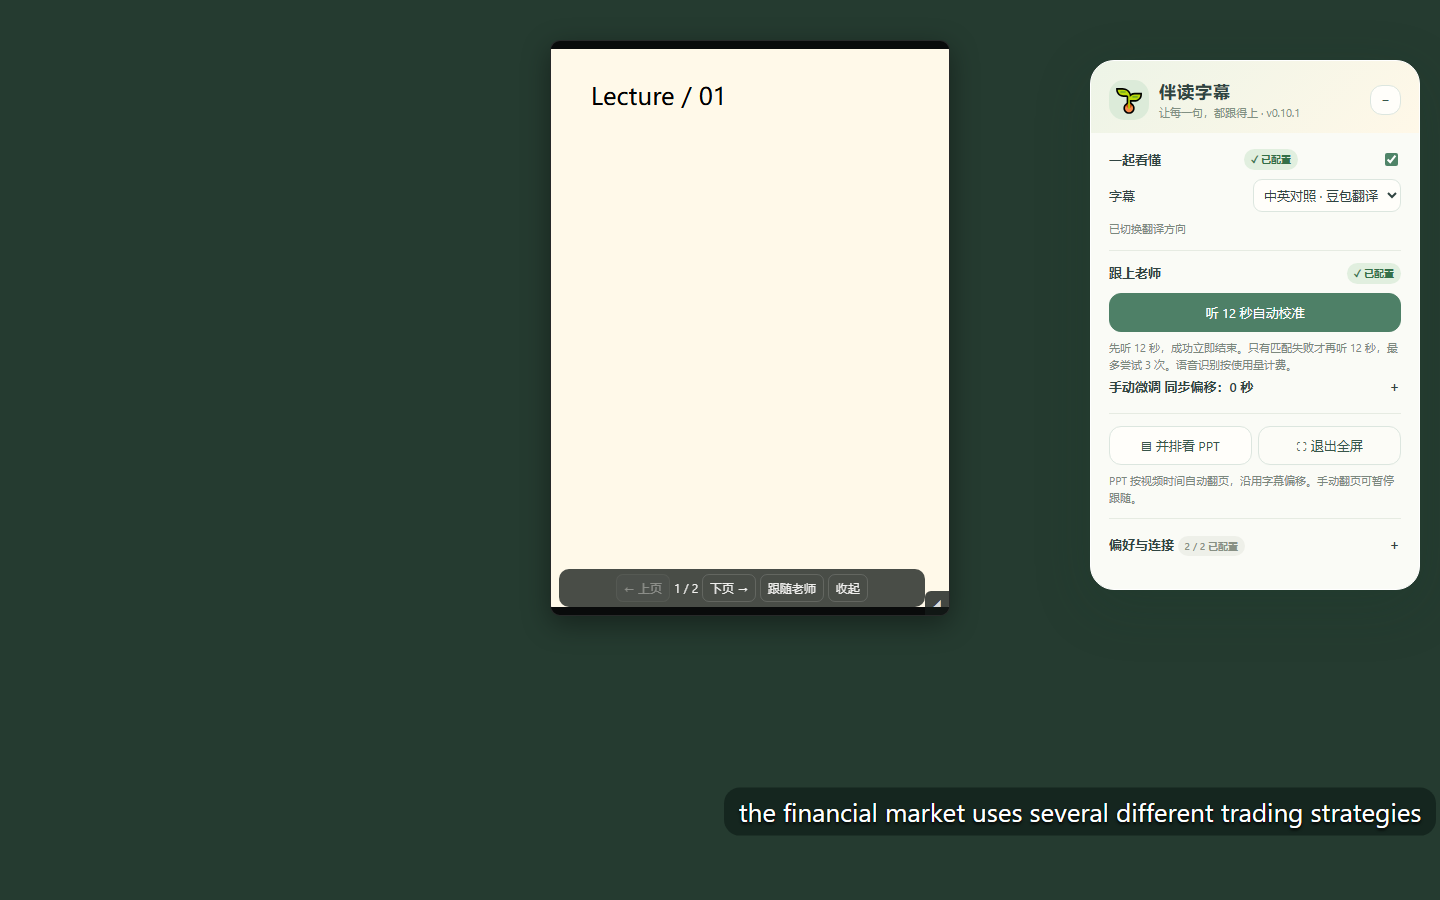
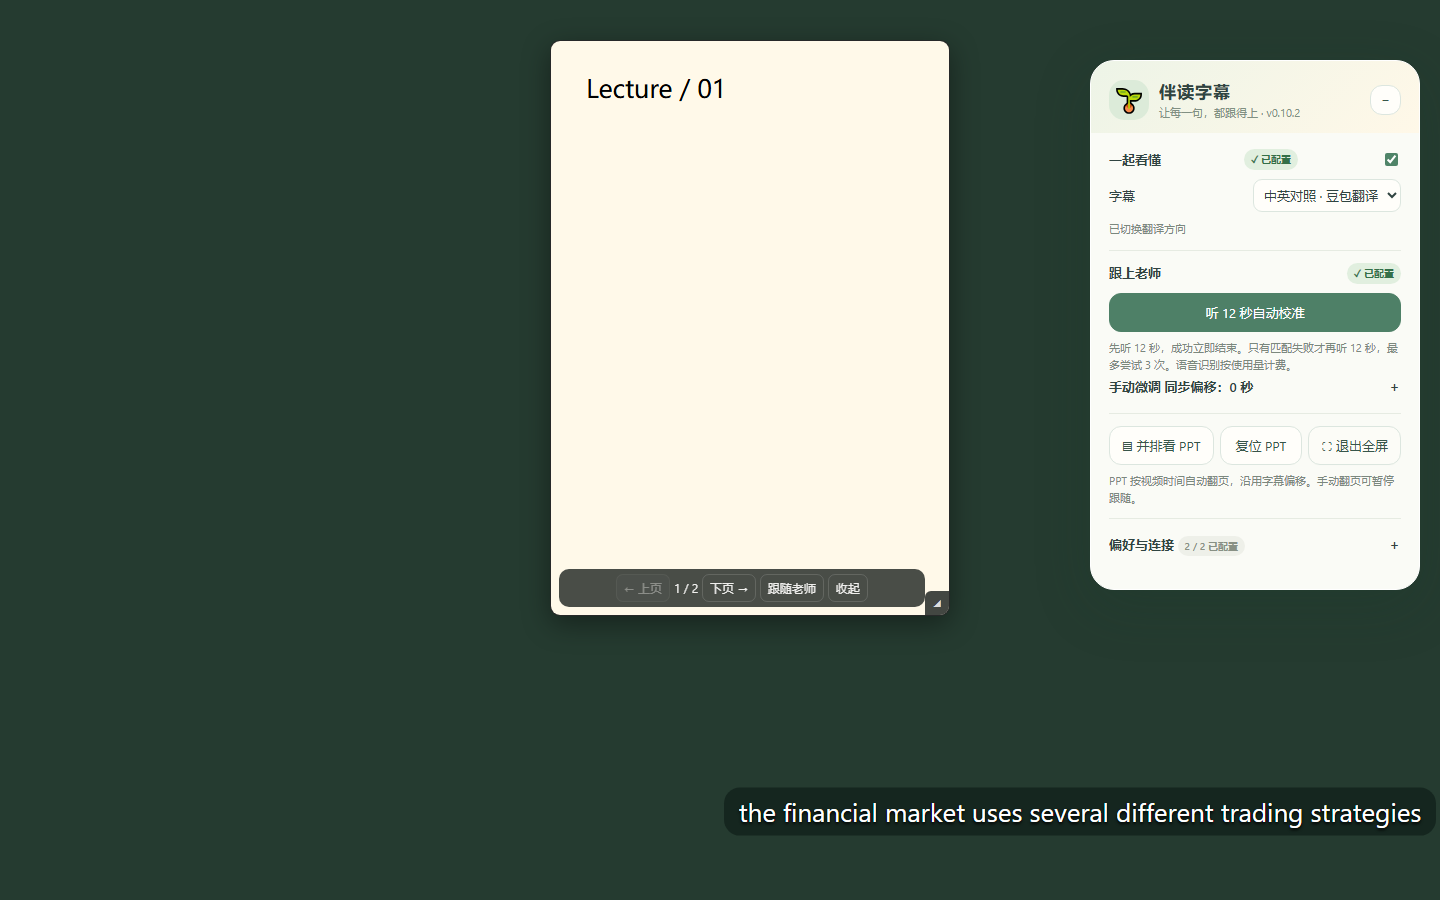
Allow offscreen PPT movement and independent edge cropping and scaling

diff --git a/zhiyun-subtitles.user.js b/zhiyun-subtitles.user.js
@@ -1,7 +1,7 @@
 // ==UserScript==
 // @name         智云课堂同步字幕
 // @namespace    zhiyunzimu.local
-// @version      0.10.1
+// @version      0.10.2
 // @description  将右侧语音识别及平台译文同步显示在视频底部，支持字幕导出。
 // @match        https://interactivemeta.cmc.zju.edu.cn/*
 // @grant        GM_xmlhttpRequest
@@ -243,9 +243,16 @@
     #slide-toolbar{position:absolute;bottom:8px;left:8px;right:24px;display:flex;gap:4px;align-items:center;justify-content:center;padding:5px;flex-wrap:wrap;background:#141a18e8;border-radius:10px;font-size:12px;color:#eee;opacity:0;transition:opacity .15s;pointer-events:none}
     #slides:hover #slide-toolbar,#slides:focus-within #slide-toolbar{opacity:1;pointer-events:auto}
     #slide-toolbar button{padding:5px 7px;background:transparent;color:#eee;border-color:#ffffff25;border-radius:7px} #slide-toolbar button:hover{background:#ffffff20} #slide-page{font-variant-numeric:tabular-nums}
-    #slide-viewport{width:100%;height:100%;overflow:hidden;touch-action:none;cursor:move}
-    #slide-image{display:block;width:100%;height:100%;object-fit:contain;user-select:none;-webkit-user-drag:none}
+    #slide-viewport{position:relative;width:100%;height:100%;overflow:hidden;touch-action:none;cursor:move}
+    #slide-image{position:absolute;left:50%;transform:translateX(-50%);display:block;width:auto;max-width:none;height:100%;user-select:none;-webkit-user-drag:none}
     #slide-resize{position:absolute;right:0;bottom:0;width:24px;height:24px;padding:0;border:0;border-radius:6px 0 0 0;background:#141a18cc;color:#ddd;cursor:nwse-resize;touch-action:none;font-size:16px}
+    .slide-edge{position:absolute;z-index:2;background:transparent;border:0;padding:0;border-radius:0;touch-action:none}
+    .slide-edge:hover{background:#8ebaa455;box-shadow:none}
+    .slide-edge[data-edge=left]{left:0;top:12px;bottom:26px;width:8px;cursor:ew-resize}
+    .slide-edge[data-edge=right]{right:0;top:12px;bottom:26px;width:8px;cursor:ew-resize}
+    .slide-edge[data-edge=top]{top:0;left:12px;right:12px;height:8px;cursor:ns-resize}
+    .slide-edge[data-edge=bottom]{bottom:0;left:12px;right:26px;height:8px;cursor:ns-resize}
+    #slide-resize{z-index:3}
     @media(hover:none){#slide-toolbar{opacity:1;pointer-events:auto}}
     @media(prefers-reduced-motion:reduce){*{transition:none!important}}
   </style>
@@ -254,9 +261,10 @@
   <section id="slides" hidden aria-label="课程幻灯片">
     <div id="slide-viewport" tabindex="0" aria-label="PPT 悬浮窗，拖动图片移动窗口"><img id="slide-image" draggable="false" alt="课程 PPT"></div>
     <nav id="slide-toolbar" aria-label="PPT 翻页"><button id="slide-prev">← 上页</button><span id="slide-page"></span><button id="slide-next">下页 →</button><button id="slide-follow" aria-pressed="true">✓ 跟随老师</button><button id="slide-close">收起</button></nav><button id="slide-resize" aria-label="调整 PPT 窗口大小" title="拖拽缩放；方向键微调">◢</button>
+    <button class="slide-edge" data-edge="left" aria-label="调整 PPT 左边缘"></button><button class="slide-edge" data-edge="right" aria-label="调整 PPT 右边缘"></button><button class="slide-edge" data-edge="top" aria-label="调整 PPT 上边缘"></button><button class="slide-edge" data-edge="bottom" aria-label="调整 PPT 下边缘"></button>
   </section>
   <section id="panel" aria-label="智云字幕设置">
-    <header id="panel-head"><span class="mascot">🌱</span><div><h3>伴读字幕</h3><span class="subtitle">让每一句，都跟得上 · v0.10.1</span></div><button id="collapse" aria-label="收起字幕设置">−</button></header>
+    <header id="panel-head"><span class="mascot">🌱</span><div><h3>伴读字幕</h3><span class="subtitle">让每一句，都跟得上 · v0.10.2</span></div><button id="collapse" aria-label="收起字幕设置">−</button></header>
     <div id="panel-body">
     <div class="section"><div class="section-title">一起看懂 <span id="translation-ready" class="badge"></span><input id="enabled" aria-label="显示字幕" type="checkbox" checked></div>
     <label>字幕<select id="mode"><option value="original">仅原文</option><option value="both">中英对照 · 豆包翻译</option></select></label>
@@ -268,7 +276,7 @@
     <details><summary>手动微调 <span id="offset-hint">同步偏移：0 秒</span></summary>
     <label>偏移 / 秒<input id="offset" type="number" min="-3600" max="3600" step="0.5" value="0"></label>
     <div class="actions"><button id="earlier">提前 0.5 秒</button><button id="later">延后 0.5 秒</button><button id="reset-offset">归零</button></div></details></div>
-    <div class="section"><div class="actions"><button id="show-slides">▤ 并排看 PPT</button><button id="focus-fullscreen">⛶ 专注全屏</button></div><p id="slides-status">翻页不会打断视频。初次打开左右各半；之后可自由拖动、缩放，记住你的布局。</p></div>
+    <div class="section"><div class="actions"><button id="show-slides">▤ 并排看 PPT</button><button id="reset-ppt">复位 PPT</button><button id="focus-fullscreen">⛶ 专注全屏</button></div><p id="slides-status">翻页不会打断视频。拖动可超出屏幕。左右拉边缘裁掉黑边，上下拉边缘按比例放大；复位可找回窗口。</p></div>
     <details class="section"><summary>偏好与连接 <span id="key-summary" class="badge"></span></summary>
     <label>翻译连接 <span id="translation-badge" class="badge"></span></label><button id="configure-key">设置翻译 Key</button>
     <label>语音连接 <span id="speech-key-badge" class="badge"></span></label><button id="speech-key">设置语音识别凭证</button><p>绿色勾表示已保存凭证，不代表接口权限已验证。</p>
@@ -510,7 +518,9 @@
   function slideBounds() {
     const r=splitVideo.getBoundingClientRect();
     const left=Math.max(0,r.left-r.width),top=Math.max(0,r.top);
-    return {left,top,width:Math.max(0,Math.min(innerWidth,r.left)-left),height:Math.max(0,Math.min(innerHeight,r.bottom)-top-64)};
+    const width=Math.max(0,Math.min(innerWidth,r.left)-left);
+    const ratio=$('slide-image').naturalWidth / $('slide-image').naturalHeight;
+    return {left,top,width,height:Math.max(0,Math.min(Math.min(innerHeight,r.bottom)-top-64,ratio>0?width/ratio:Infinity))};
   }
   function restoreSlideGeometry() {
     const b=slideBounds(),saved=GM_getValue('ppt-free-window-v2',null);
@@ -518,8 +528,8 @@
   }
   function applySlideGeometry(rect) {
     const b={left:0,top:0,width:innerWidth,height:innerHeight};
-    const width=Math.min(b.width,Math.max(280,rect.width)),height=Math.min(b.height,Math.max(180,rect.height));
-    Object.assign($('slides').style,{left:Math.max(b.left,Math.min(b.left+b.width-width,rect.left))+'px',top:Math.max(b.top,Math.min(b.top+b.height-height,rect.top))+'px',width:width+'px',height:height+'px'});
+    const width=Math.min(b.width*4,Math.max(160,rect.width)),height=Math.min(b.height*4,Math.max(100,rect.height));
+    Object.assign($('slides').style,{left:Math.max(72-width,Math.min(b.width-72,rect.left))+'px',top:Math.max(72-height,Math.min(b.height-72,rect.top))+'px',width:width+'px',height:height+'px'});
   }
   function saveSlideGeometry() {
     if(!splitVideo) return;
@@ -530,17 +540,25 @@
   $('slide-viewport').addEventListener('pointerdown',()=>{slideDragging=true;});
   for(const event of ['pointerup','pointercancel','lostpointercapture']) $('slide-viewport').addEventListener(event,()=>{slideDragging=false;});
   let resizing=null;
-  $('slide-resize').addEventListener('pointerdown',e=>{
-    if(e.button!==0) return;
-    const r=$('slides').getBoundingClientRect();
-    resizing={left:r.left,top:r.top,width:r.width,height:r.height,x:e.clientX,y:e.clientY};
-    e.currentTarget.setPointerCapture(e.pointerId);e.preventDefault();e.stopPropagation();
-  });
-  $('slide-resize').addEventListener('pointermove',e=>{
-    if(!resizing) return;
-    applySlideGeometry({...resizing,width:resizing.width+e.clientX-resizing.x,height:resizing.height+e.clientY-resizing.y});
-  });
-  for(const event of ['pointerup','pointercancel','lostpointercapture']) $('slide-resize').addEventListener(event,()=>{if(resizing) saveSlideGeometry();resizing=null;});
+  for(const handle of [$('slide-resize'),...shadow.querySelectorAll('.slide-edge')]) {
+    handle.addEventListener('pointerdown',e=>{
+      if(e.button!==0) return;
+      const r=$('slides').getBoundingClientRect();
+      resizing={left:r.left,top:r.top,width:r.width,height:r.height,x:e.clientX,y:e.clientY,edge:handle.dataset.edge || 'corner'};
+      handle.setPointerCapture(e.pointerId);e.preventDefault();e.stopPropagation();
+    });
+    handle.addEventListener('pointermove',e=>{
+      if(!resizing) return;
+      const r=resizing,dx=e.clientX-r.x,dy=e.clientY-r.y,next={...r};
+      if(r.edge==='left') {next.width=Math.max(160,r.width-dx);next.left=r.left+r.width-next.width;}
+      if(r.edge==='right' || r.edge==='corner') next.width=r.width+dx;
+      if(r.edge==='top') {next.height=Math.max(100,r.height-dy);next.top=r.top+r.height-next.height;}
+      if(r.edge==='bottom' || r.edge==='corner') next.height=r.height+dy;
+      applySlideGeometry(next);
+    });
+    for(const event of ['pointerup','pointercancel','lostpointercapture']) handle.addEventListener(event,()=>{if(resizing) saveSlideGeometry();resizing=null;});
+  }
+  $('reset-ppt').onclick=()=>{GM_deleteValue('ppt-free-window-v2');if(splitVideo) restoreSlideGeometry();else showSlides();};
   $('slide-resize').addEventListener('keydown',e=>{
     const steps={ArrowRight:[20,0],ArrowLeft:[-20,0],ArrowUp:[0,-20],ArrowDown:[0,20]};
     if(!steps[e.key]) return;

diff --git a/README.md b/README.md
@@ -4,11 +4,13 @@
 
 ![界面预览（模拟课堂）](ui-preview.png)
 
-## v0.10.1 更新
+## v0.10.2 更新
 
-打开 PPT 后恢复左右分区：左侧 PPT、右侧视频各占一半。初次打开时 PPT 位于左侧；之后可跨越分区自由拖动和缩放，记住用户调整后的布局，仅限制在浏览器可见范围内。关闭后视频恢复原宽度。
+打开 PPT 后恢复左右分区：左侧 PPT、右侧视频各占一半。初次打开时 PPT 位于左侧；之后可跨越分区自由拖动和缩放，记住用户调整后的布局，允许部分移出屏幕，至少保留 72 像素可见区域。关闭后视频恢复原宽度。
 
 翻译前先进行本地语言检测：明确属于目标语言的字幕不发送给豆包，也不重复显示译文。中文为主且夹杂少量英文术语的句子通常跳过英译中；包含完整英文句子的混合字幕仍翻译。检测基于文字规则，极短或复杂混合语言可能判断不准。
+
+左右拖边缘只改变窗口宽度，裁掉左右黑边或多余画面；上下拖边缘改变显示高度，PPT 按比例放大。图片不拉伸，超出窗口的部分会裁切。初次打开按图片比例完整显示。「复位 PPT」可恢复默认位置和大小。
 
 ## 功能
 
@@ -22,7 +24,7 @@
 
 1. 安装 Tampermonkey，并在浏览器扩展设置中允许用户脚本运行。
 2. 打开 [脚本安装地址](https://raw.githubusercontent.com/FILAgiao/zhiyun-subtitles/main/zhiyun-subtitles.user.js)，按提示安装；也可在油猴中新建脚本，完整粘贴本仓库 JS 内容后保存。
-3. 刷新智云课堂回放，打开右侧「语音识别」。面板版本应为 **v0.10.1**。
+3. 刷新智云课堂回放，打开右侧「语音识别」。面板版本应为 **v0.10.2**。
 4. 「偏好与连接」可分别填写翻译 Key 和语音 Key。绿色勾表示已保存，不代表接口权限已经验证。
 
 仅使用字幕显示、手动偏移或 PPT 悬浮窗时，无需 API Key。
